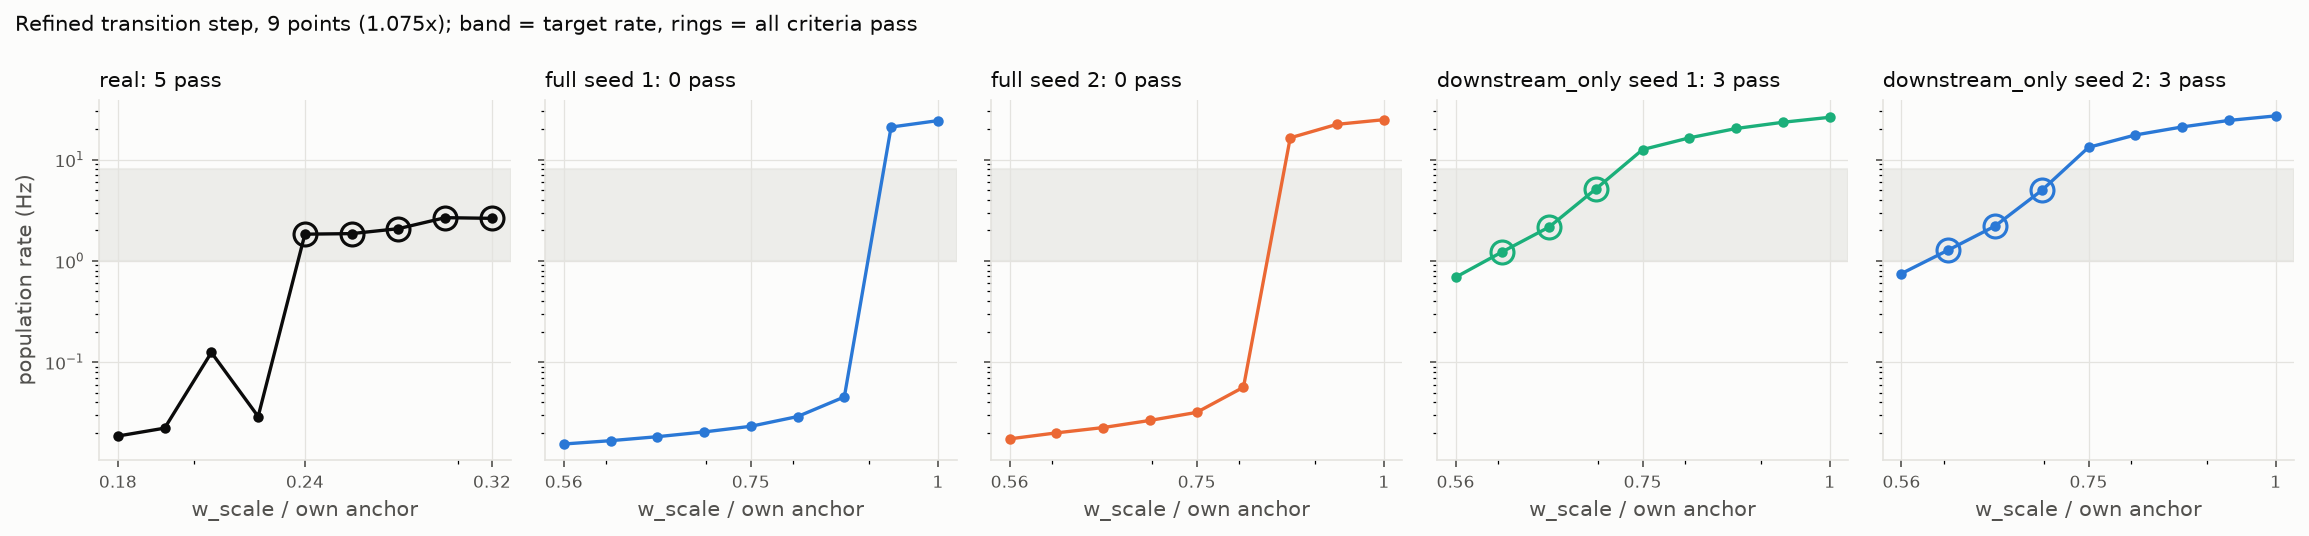
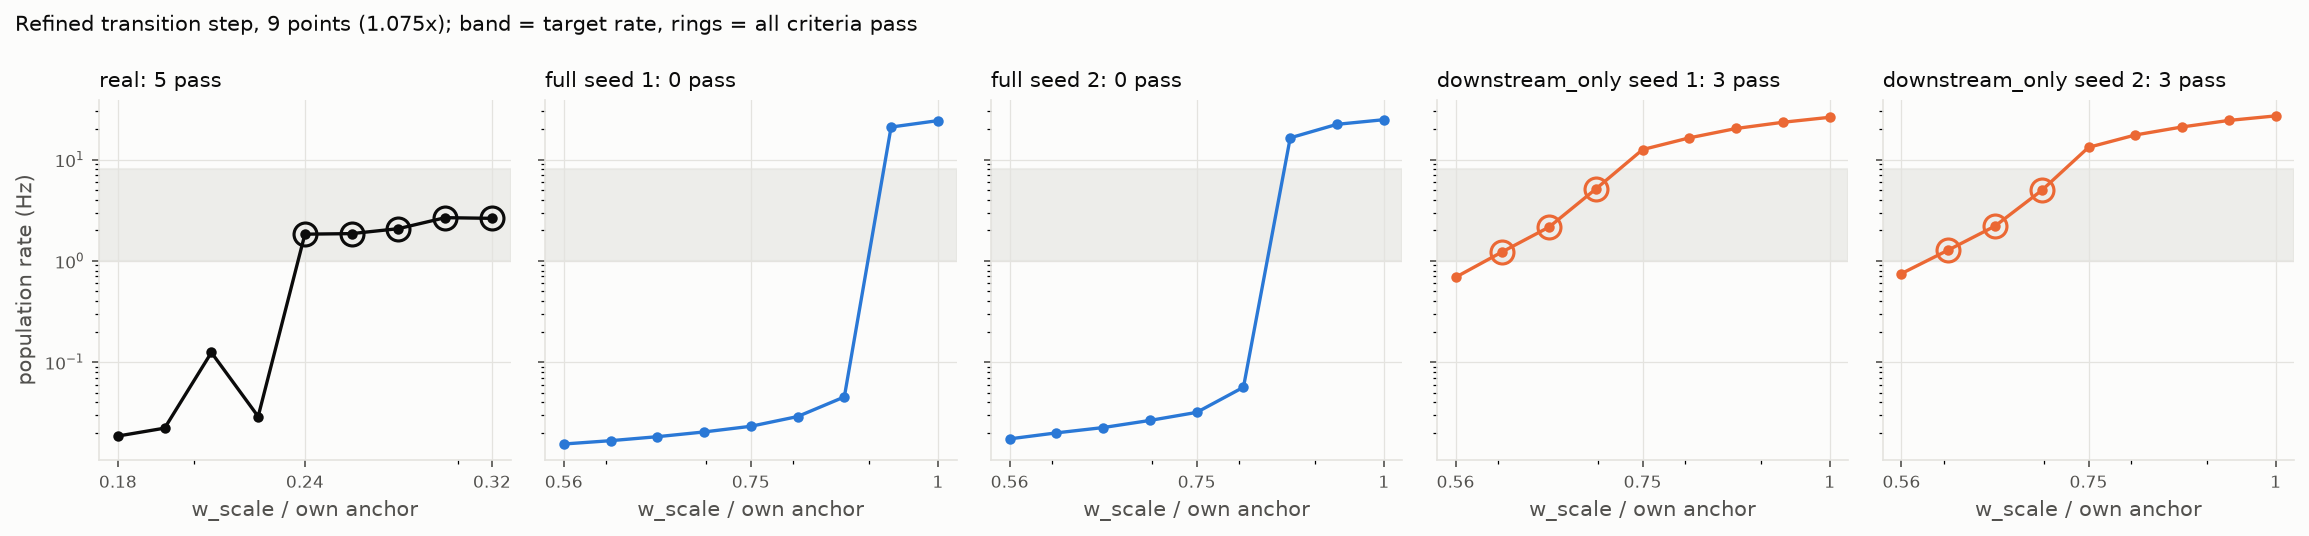
Transition refinement: claim does not survive at fine resolution

diff --git a/experiments/transition_refine.py b/experiments/transition_refine.py
@@ -55,7 +55,7 @@ def transition_step(points, tmin):
 def plot(out, tmin, tmax, k, step):
     names = list(out["graphs"])
     fig, axes = plt.subplots(1, len(names), figsize=(3.1 * len(names), 3.6), sharey=True)
-    colors = [TEXT] + [CATEGORICAL[i % len(CATEGORICAL)] for i in range(len(names) - 1)]
+    colors = [TEXT if n == "real" else CATEGORICAL[ShuffleConfig().regime_conditions.index(n.split(" seed")[0])] for n in names]
     for ax, name, color in zip(axes, names, colors):
         g = out["graphs"][name]
         x = [p["w_over_anchor"] for p in g["points"]]
@@ -160,7 +160,7 @@ def main():
     else:
         names = ", ".join(f"{n} ({g['n_passing']} points)" for n, g in shuffled.items() if g["window"])
         verdict = (f"The claim does NOT survive as stated: {n_win} of {len(shuffled)} shuffled graphs have a passing point at "
-                   f"{step:.3f}x resolution: {names}. At this resolution these are narrow (knife-edge) windows, not absent ones.")
+                   f"{step:.3f}x resolution: {names}. At this resolution these are narrow windows, not absent ones.")
     out["verdict"] = verdict
     OUT_JSON.write_text(json.dumps(out, indent=2))
 

diff --git a/experiments/control_report.md b/experiments/control_report.md
@@ -1,6 +1,6 @@
 # Shuffle control: real connectome vs degree-preserving random graphs
 
-Generated 2026-09-17T15:43:18+00:00 by `experiments/shuffle_control.py`; raw numbers in `cache/shuffle_control_results.json`.
+Generated 2026-09-17T16:09:31+00:00 by `experiments/shuffle_control.py`; raw numbers in `cache/shuffle_control_results.json`.
 
 ## Design (fixed before running)
 
@@ -156,23 +156,39 @@ Written after reading the numbers; the mechanical flags are in the previous sect
 
 ### What we are allowed to claim
 
-**1. The connectome's topology admits a stable, low-rate, input-driven regime at the calibrated inhibitory gain
-that degree-, weight- and sign-matched random graphs do not (Control 1a).** Under an identical 13-point w_scale
-scan at g_inh 2.5, each graph centred on its own anchor, the real graph passes all three target criteria at two
-points (2.6 and 4.4 Hz; sensory rate 85% and 77% of reference; 0 Hz with the drive removed). None of the four
-shuffled graphs (2 full, 2 downstream-only) passes at any point: they stay silent (<= 0.75 Hz) up to 0.56x their
-anchor and jump to 24-27 Hz at 1x, 41-68 Hz above that, with the sensory neurons pushed to 175-477% of reference
-instead of being held near it. Limit of the statement: the grid spacing is 1.78x in w_scale, so a shuffled window
-narrower than one grid step is not excluded; the real graph's window spans at least one full step on the same
-relative grid. Control 1b (recalibrating each shuffled graph to a matched rate and re-running transmission) was
-therefore not applicable and was not run. The full- and downstream-shuffle transmission and dynamics differences
-in the main table remain comparisons between a 4-5 Hz and a ~35 Hz network: they are regime differences, and the
-matched-rate comparison does not exist at this g_inh.
+**1. Full shuffles have no working window at g_inh 2.5; downstream-only shuffles have a narrow one (Control 1a
+plus refinement).** The 13-point scan (1.78x steps) found no window for any of the 4 shuffled graphs, but they all
+went from < 1 Hz to 24-27 Hz between two neighbouring points, so each of those steps was re-sampled at 9 points
+(1.075x). The result section "Control 1a" below is the coarse scan; its verdict is superseded by the refinement.
+- **Real graph (positive control):** passes from 0.237x its anchor on (1.8-2.7 Hz, sensory 75-93%, 0 Hz without
+  drive). It also passes on the coarse grid at 0.316x and 0.562x and fails at 1x (11.7 Hz). Window width >= 2.37x
+  in w_scale (upper edge not refined).
+- **Full shuffle, seeds 1 and 2:** still no passing point. Each jumps from 0.045 / 0.056 Hz to 20.9 / 16.4 Hz
+  within ONE 1.075x step. A window narrower than 1.075x is not excluded.
+- **Downstream-only shuffle, seeds 1 and 2:** WINDOW EXISTS. 3 of 9 refined points pass all three pre-registered
+  conditions each (seed 1: 1.23, 2.16, 5.13 Hz; seed 2: 1.28, 2.20, 4.96 Hz; 0 Hz without drive in all six).
+  The rise is graded, not a jump. The window is between 1.155x and 1.33x wide in w_scale, at most a third of the
+  real graph's width in log w_scale. The sensory neurons in these passing points fire at 161-187% of the reference
+  rate (real graph: 75-93%); the pre-registered preservation condition is one-sided (> 70%), so they pass.
 
-**2. The pre-registered prediction for downstream-only was wrong, and Control 1a explains why.** Downstream-only
-was expected to change little because hop 2 and hop 3 carry no measurable audio information. It changes as much
-as the full shuffle, and it too has no working window: the structure beyond hop 1 carries no audio information
-but is what makes the low-rate input-driven state possible.
+So the earlier claim "degree-, weight- and sign-matched random graphs do not admit a stable low-rate
+input-driven state at this g_inh" does NOT survive. It holds for the two full shuffles at 1.075x resolution. It
+fails for the two downstream-only shuffles, which keep the real sensory neurons' outgoing wiring and have a
+narrow window. What survives: the real graph's window is much wider (>= 2.37x vs <= 1.33x) and sits with the
+sensory neurons near their unperturbed rate. With 2 graphs per condition, the full vs downstream-only difference
+is an observation, not a tested effect.
+
+Control 1b (recalibrate each shuffled graph to its own window, re-run transmission at matched rates) is now
+applicable to the downstream-only shuffles and was NOT run: the experimental work was closed with this
+refinement. The Step 6 full- and downstream-shuffle transmission and dynamics differences are therefore still
+comparisons at the real calibration (w_scale 4.80, ~1.36x the shuffles' own anchors, ~35 Hz), i.e. regime
+differences, not matched-rate comparisons.
+
+**2. The pre-registered prediction for downstream-only was wrong.** Downstream-only was expected to change little
+because hop 2 and hop 3 carry no measurable audio information. At the real calibration it changes as much as
+the full shuffle, because it moves the operating point: its own window lies at 0.60-0.70x its anchor, far
+below the w_scale the real graph was calibrated at. The structure beyond hop 1 carries no audio information but
+sets where, and how wide, the low-rate input-driven regime is.
 
 **3. There is no evidence that the specific sensory-to-descending wiring improves transmission.** With the
 regime intact (sensory-only shuffle, same 56 targets, afferent groups re-assigned), real minus shuffled |r|
@@ -189,13 +205,15 @@ band is this project's assignment, not measured tonotopy, the wiring gives no su
 correspondence.
 
 ### What this means for the sonification
-The output depends on the real connectome through its topology holding the network in a low-rate, input-driven
-state that matched random graphs do not reach at the same inhibitory gain. It does not, at the level measured
-here, depend on a frequency-specific sensory-to-descending wiring: the apparent selectivity is type structure,
-and randomizing which afferent group contacts which target does not reduce transmission.
+The output depends on the real connectome through the operating regime its topology gives at the calibrated gain.
+That regime is wide in the real graph, narrow in downstream-only shuffles, and not found in full shuffles at
+1.075x resolution. The output does not, at the level measured here, depend on a frequency-specific
+sensory-to-descending wiring: the apparent selectivity is type structure, and randomizing which afferent group
+contacts which target does not reduce transmission.
 
 Limitations: 5 sections (the 2 kyuchek sections overlap by 7 s), 2 seeds per shuffle condition, 2 shuffled
-graphs per condition in Control 1a, a 1.78x w_scale grid, one calibration, one g_inh.
+graphs per condition in Control 1a, 1.075x resolution at the transition step only (the real graph's upper edge
+not refined), one calibration, one g_inh, no matched-rate transmission comparison (Control 1b not run).
 
 ## Control 1a: does a working window exist for degree-matched shuffled graphs?
 
@@ -222,6 +240,30 @@ Per point (rate Hz / sensory preservation / no-drive non-sensory Hz where tested
 ![matched regime](../figures/matched_regime.png)
 
 **Result:** NO degree-matched shuffled graph (4 tested) has a working window at g_inh 2.5, while the real graph does under the identical protocol. The connectome's topology admits a stable low-rate, input-driven state at this inhibitory gain that degree-, weight- and sign-matched random graphs do not.
+
+## Control 1a, refinement: a window narrower than one grid step?
+
+`experiments/transition_refine.py`. For each graph the grid step in which the rate first reaches 1 Hz from below was re-sampled at 9 geometrically spaced w_scale values, endpoints included (1.075x steps), with the matched_regime protocol and pass conditions unchanged (every point from rest). The real graph is the positive control; its refined step ends at a grid point that already passed, so its passing there is expected, and what the control adds is the shape of its transition.
+
+| graph | grid step (x own anchor) | points in rate band | passing points | highest rate below band | lowest rate above band | sharpest crossing (fine) | endpoints grid -> refined (Hz) |
+|---|---|---|---|---|---|---|---|
+| real | 0.178 - 0.316 | 5 | **5** | 0.124 Hz | n/a | 0.029 Hz @ 0.221x -> 1.83 Hz @ 0.237x | 0.0186 -> 0.0186; 2.63 -> 2.63 |
+| full seed 1 | 0.562 - 1 | 0 | **0** | 0.0453 Hz | 20.9 Hz | 0.0453 Hz @ 0.866x -> 20.9 Hz @ 0.931x | 0.0155 -> 0.0155; 24.2 -> 24.2 |
+| full seed 2 | 0.562 - 1 | 0 | **0** | 0.0564 Hz | 16.4 Hz | 0.0564 Hz @ 0.806x -> 16.4 Hz @ 0.866x | 0.0174 -> 0.0174; 24.8 -> 24.8 |
+| downstream_only seed 1 | 0.562 - 1 | 3 | **3** | 0.688 Hz | 12.6 Hz | 0.688 Hz @ 0.562x -> 1.23 Hz @ 0.604x | 0.688 -> 0.688; 26.1 -> 26.1 |
+| downstream_only seed 2 | 0.562 - 1 | 3 | **3** | 0.749 Hz | 13.2 Hz | 0.749 Hz @ 0.562x -> 1.28 Hz @ 0.604x | 0.749 -> 0.749; 27 -> 27 |
+
+Rate curve across the step (x own anchor: rate Hz / sensory preservation / no-drive non-sensory Hz where tested):
+
+- **real**: 0.1778x: 0.0186 / 94%; 0.1911x: 0.0223 / 95%; 0.2054x: 0.124 / 94%; 0.2207x: 0.029 / 90%; 0.2371x: 1.83 / 86% / 0 PASS; 0.2548x: 1.86 / 93% / 0 PASS; 0.2738x: 2.08 / 91% / 0 PASS; 0.2943x: 2.67 / 75% / 0 PASS; 0.3162x: 2.63 / 85% / 0 PASS
+- **full seed 1**: 0.5623x: 0.0155 / 101%; 0.6043x: 0.0167 / 101%; 0.6494x: 0.0183 / 101%; 0.6978x: 0.0204 / 101%; 0.7499x: 0.0232 / 101%; 0.8058x: 0.029 / 101%; 0.866x: 0.0453 / 101%; 0.9306x: 20.9 / 161%; 1x: 24.2 / 175%
+- **full seed 2**: 0.5623x: 0.0174 / 101%; 0.6043x: 0.02 / 101%; 0.6494x: 0.0225 / 101%; 0.6978x: 0.0265 / 101%; 0.7499x: 0.0318 / 101%; 0.8058x: 0.0564 / 101%; 0.866x: 16.4 / 163%; 0.9306x: 22.3 / 186%; 1x: 24.8 / 188%
+- **downstream_only seed 1**: 0.5623x: 0.688 / 168%; 0.6043x: 1.23 / 172% / 0 PASS; 0.6494x: 2.15 / 177% / 0 PASS; 0.6978x: 5.13 / 187% / 0 PASS; 0.7499x: 12.6 / 190%; 0.8058x: 16.4 / 193%; 0.866x: 20.3 / 201%; 0.9306x: 23.4 / 207%; 1x: 26.1 / 214%
+- **downstream_only seed 2**: 0.5623x: 0.749 / 161%; 0.6043x: 1.28 / 161% / 0 PASS; 0.6494x: 2.2 / 168% / 0 PASS; 0.6978x: 4.96 / 162% / 0 PASS; 0.7499x: 13.2 / 178%; 0.8058x: 17.5 / 195%; 0.866x: 21 / 219%; 0.9306x: 24.3 / 232%; 1x: 27 / 237%
+
+![transition refinement](../figures/transition_refine.png)
+
+**Result:** The claim does NOT survive as stated: 2 of 4 shuffled graphs have a passing point at 1.075x resolution: downstream_only seed 1 (3 points), downstream_only seed 2 (3 points). At this resolution these are narrow windows, not absent ones.
 
 ## Structural analysis: band selectivity of the sensory input to the hop-1 motor neurons (no simulation)
 

diff --git a/experiments/control_interpretation.md b/experiments/control_interpretation.md
@@ -6,23 +6,39 @@ Written after reading the numbers; the mechanical flags are in the previous sect
 
 ### What we are allowed to claim
 
-**1. The connectome's topology admits a stable, low-rate, input-driven regime at the calibrated inhibitory gain
-that degree-, weight- and sign-matched random graphs do not (Control 1a).** Under an identical 13-point w_scale
-scan at g_inh 2.5, each graph centred on its own anchor, the real graph passes all three target criteria at two
-points (2.6 and 4.4 Hz; sensory rate 85% and 77% of reference; 0 Hz with the drive removed). None of the four
-shuffled graphs (2 full, 2 downstream-only) passes at any point: they stay silent (<= 0.75 Hz) up to 0.56x their
-anchor and jump to 24-27 Hz at 1x, 41-68 Hz above that, with the sensory neurons pushed to 175-477% of reference
-instead of being held near it. Limit of the statement: the grid spacing is 1.78x in w_scale, so a shuffled window
-narrower than one grid step is not excluded; the real graph's window spans at least one full step on the same
-relative grid. Control 1b (recalibrating each shuffled graph to a matched rate and re-running transmission) was
-therefore not applicable and was not run. The full- and downstream-shuffle transmission and dynamics differences
-in the main table remain comparisons between a 4-5 Hz and a ~35 Hz network: they are regime differences, and the
-matched-rate comparison does not exist at this g_inh.
+**1. Full shuffles have no working window at g_inh 2.5; downstream-only shuffles have a narrow one (Control 1a
+plus refinement).** The 13-point scan (1.78x steps) found no window for any of the 4 shuffled graphs, but they all
+went from < 1 Hz to 24-27 Hz between two neighbouring points, so each of those steps was re-sampled at 9 points
+(1.075x). The result section "Control 1a" below is the coarse scan; its verdict is superseded by the refinement.
+- **Real graph (positive control):** passes from 0.237x its anchor on (1.8-2.7 Hz, sensory 75-93%, 0 Hz without
+  drive). It also passes on the coarse grid at 0.316x and 0.562x and fails at 1x (11.7 Hz). Window width >= 2.37x
+  in w_scale (upper edge not refined).
+- **Full shuffle, seeds 1 and 2:** still no passing point. Each jumps from 0.045 / 0.056 Hz to 20.9 / 16.4 Hz
+  within ONE 1.075x step. A window narrower than 1.075x is not excluded.
+- **Downstream-only shuffle, seeds 1 and 2:** WINDOW EXISTS. 3 of 9 refined points pass all three pre-registered
+  conditions each (seed 1: 1.23, 2.16, 5.13 Hz; seed 2: 1.28, 2.20, 4.96 Hz; 0 Hz without drive in all six).
+  The rise is graded, not a jump. The window is between 1.155x and 1.33x wide in w_scale, at most a third of the
+  real graph's width in log w_scale. The sensory neurons in these passing points fire at 161-187% of the reference
+  rate (real graph: 75-93%); the pre-registered preservation condition is one-sided (> 70%), so they pass.
 
-**2. The pre-registered prediction for downstream-only was wrong, and Control 1a explains why.** Downstream-only
-was expected to change little because hop 2 and hop 3 carry no measurable audio information. It changes as much
-as the full shuffle, and it too has no working window: the structure beyond hop 1 carries no audio information
-but is what makes the low-rate input-driven state possible.
+So the earlier claim "degree-, weight- and sign-matched random graphs do not admit a stable low-rate
+input-driven state at this g_inh" does NOT survive. It holds for the two full shuffles at 1.075x resolution. It
+fails for the two downstream-only shuffles, which keep the real sensory neurons' outgoing wiring and have a
+narrow window. What survives: the real graph's window is much wider (>= 2.37x vs <= 1.33x) and sits with the
+sensory neurons near their unperturbed rate. With 2 graphs per condition, the full vs downstream-only difference
+is an observation, not a tested effect.
+
+Control 1b (recalibrate each shuffled graph to its own window, re-run transmission at matched rates) is now
+applicable to the downstream-only shuffles and was NOT run: the experimental work was closed with this
+refinement. The Step 6 full- and downstream-shuffle transmission and dynamics differences are therefore still
+comparisons at the real calibration (w_scale 4.80, ~1.36x the shuffles' own anchors, ~35 Hz), i.e. regime
+differences, not matched-rate comparisons.
+
+**2. The pre-registered prediction for downstream-only was wrong.** Downstream-only was expected to change little
+because hop 2 and hop 3 carry no measurable audio information. At the real calibration it changes as much as
+the full shuffle, because it moves the operating point: its own window lies at 0.60-0.70x its anchor, far
+below the w_scale the real graph was calibrated at. The structure beyond hop 1 carries no audio information but
+sets where, and how wide, the low-rate input-driven regime is.
 
 **3. There is no evidence that the specific sensory-to-descending wiring improves transmission.** With the
 regime intact (sensory-only shuffle, same 56 targets, afferent groups re-assigned), real minus shuffled |r|
@@ -39,10 +55,12 @@ band is this project's assignment, not measured tonotopy, the wiring gives no su
 correspondence.
 
 ### What this means for the sonification
-The output depends on the real connectome through its topology holding the network in a low-rate, input-driven
-state that matched random graphs do not reach at the same inhibitory gain. It does not, at the level measured
-here, depend on a frequency-specific sensory-to-descending wiring: the apparent selectivity is type structure,
-and randomizing which afferent group contacts which target does not reduce transmission.
+The output depends on the real connectome through the operating regime its topology gives at the calibrated gain.
+That regime is wide in the real graph, narrow in downstream-only shuffles, and not found in full shuffles at
+1.075x resolution. The output does not, at the level measured here, depend on a frequency-specific
+sensory-to-descending wiring: the apparent selectivity is type structure, and randomizing which afferent group
+contacts which target does not reduce transmission.
 
 Limitations: 5 sections (the 2 kyuchek sections overlap by 7 s), 2 seeds per shuffle condition, 2 shuffled
-graphs per condition in Control 1a, a 1.78x w_scale grid, one calibration, one g_inh.
+graphs per condition in Control 1a, 1.075x resolution at the transition step only (the real graph's upper edge
+not refined), one calibration, one g_inh, no matched-rate transmission comparison (Control 1b not run).

diff --git a/README.md b/README.md
@@ -152,14 +152,21 @@ for correlated music bands, which is why Satie hop 2 scored *below* null.
 - Full and downstream-only shuffles put the calibrated network into an input-independent ~35 Hz state (real:
   4-5 Hz). The prediction that downstream-only would change little was WRONG: the structure beyond hop 1 carries
   no audio information but sets the operating point.
-- Control 1a (`experiments/matched_regime.py`): is that just a calibration mismatch? Identical 13-point w_scale
-  scan at g_inh 2.5, each graph centred on its own anchor. The real graph has a working window (2.6 and 4.4 Hz,
-  sensory 85% / 77% of reference, 0 Hz without drive). NONE of 4 shuffled graphs (full and downstream-only, 2 seeds
-  each) has one: silent (<= 0.75 Hz) up to 0.56x anchor, 24-27 Hz at 1x, up to 68 Hz above. So the connectome's
-  topology admits a stable low-rate input-driven state at this g_inh that degree-, weight- and sign-matched random
-  graphs do not. Caveat: grid step 1.78x, a narrower shuffled window is not excluded. Control 1b (transmission at
-  matched rates) was not applicable and was not run; the full/downstream transmission differences therefore remain
-  regime differences, not a matched comparison.
+- Control 1a (`experiments/matched_regime.py`, `experiments/transition_refine.py`): is that just a calibration
+  mismatch? Identical w_scale scan at g_inh 2.5, each graph centred on its own anchor: 13 points (1.78x steps),
+  then the step where the rate crosses 1 Hz re-sampled at 9 points (1.075x steps).
+  - **Real graph:** window from 0.237x to between 0.562x and 1x its anchor (>= 2.37x wide), 1.8-4.4 Hz, sensory
+    75-93% of reference, silent without drive.
+  - **Full shuffles (2 seeds):** NO window at 1.075x resolution. They jump from 0.05 Hz to 16-21 Hz within one
+    1.075x step.
+  - **Downstream-only shuffles (2 seeds):** a NARROW window. 3 of 9 refined points pass all pre-registered
+    conditions (1.2-5.1 Hz, silent without drive, sensory 161-187% of reference, which passes the one-sided > 70%
+    rule). Width 1.155-1.33x, at most a third of the real graph's in log w_scale. The coarse grid had missed it.
+  - The earlier claim "degree-matched random graphs have no working window" therefore does NOT survive. It holds
+    for full shuffles at this resolution. For downstream-only shuffles (real sensory output wiring kept) the
+    finding is a much narrower window, not no window.
+  - Control 1b (transmission at matched rates) now applies to downstream-only and was not run. The Step 6
+    full/downstream transmission differences remain regime differences, not a matched comparison.
 - Sensory-only (same 56 targets, afferent groups re-assigned): no transmission advantage for the real wiring;
   real minus shuffled |r| excess -0.038 [-0.082, -0.007], negative in all 5 sections, nominal p 0.017, not
   surviving multiple comparisons.
@@ -168,7 +175,8 @@ for correlated music bands, which is why Satie hop 2 scored *below* null.
   partitions of the sensory neurons into groups of the same sizes the gap is +0.0275 on average (range -0.012 to
   +0.057, none significant), and the type-sorted gap is more extreme than all 200 (0th percentile). Because the
   group-to-band assignment is ours, the wiring gives no support for a band-to-note correspondence.
-- Net: the sonification depends on the real connectome through its regime (topology), not through
+- Net: the sonification depends on the real connectome through the width of the operating regime its topology
+  gives (wide in the real graph, narrow in downstream-only shuffles, not found in full shuffles), not through
   frequency-specific sensory-to-descending wiring.
 
 ## Status: experimental work closed

diff --git a/experiments/transition_refine.md b/experiments/transition_refine.md
@@ -20,4 +20,4 @@ Rate curve across the step (x own anchor: rate Hz / sensory preservation / no-dr
 
 ![transition refinement](../figures/transition_refine.png)
 
-**Result:** The claim does NOT survive as stated: 2 of 4 shuffled graphs have a passing point at 1.075x resolution: downstream_only seed 1 (3 points), downstream_only seed 2 (3 points). At this resolution these are narrow (knife-edge) windows, not absent ones.
+**Result:** The claim does NOT survive as stated: 2 of 4 shuffled graphs have a passing point at 1.075x resolution: downstream_only seed 1 (3 points), downstream_only seed 2 (3 points). At this resolution these are narrow windows, not absent ones.
